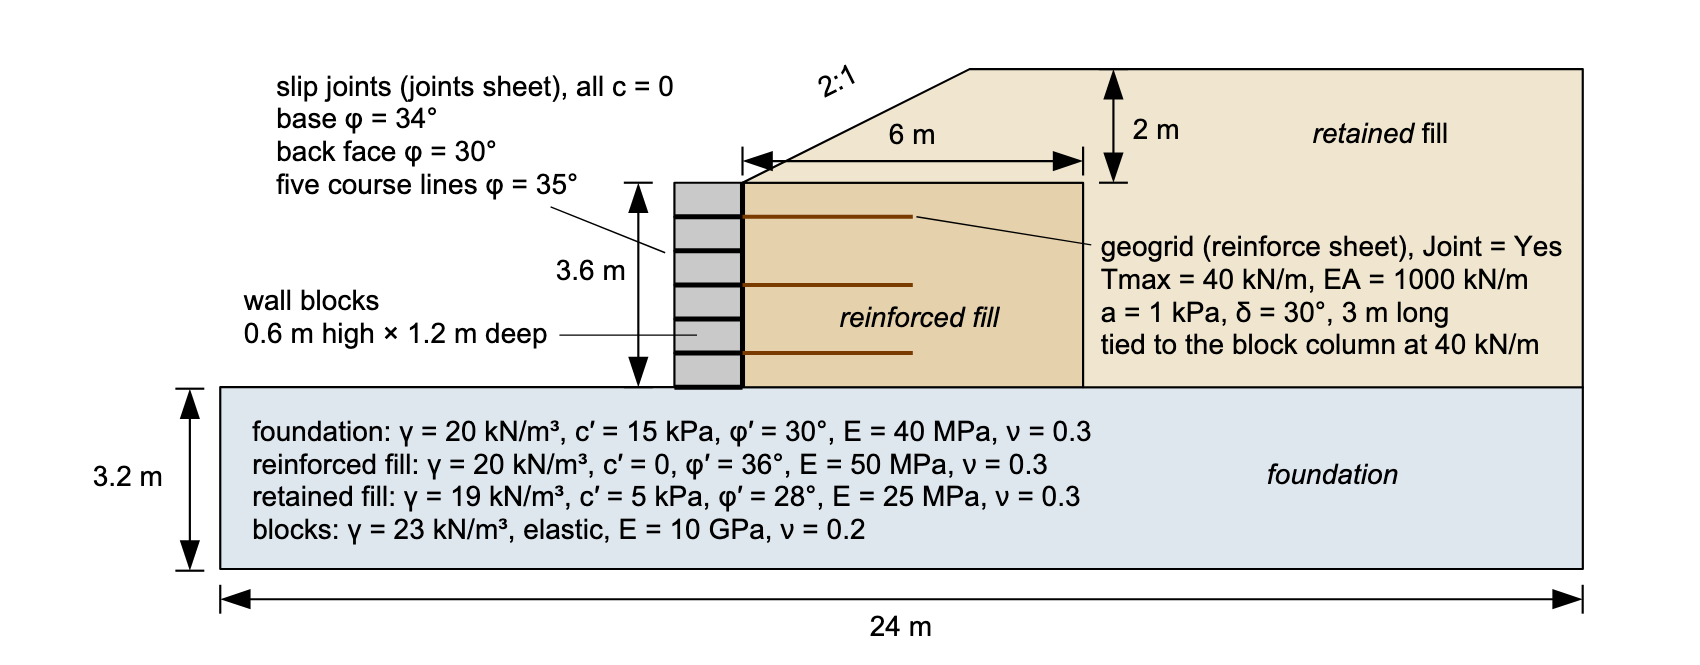
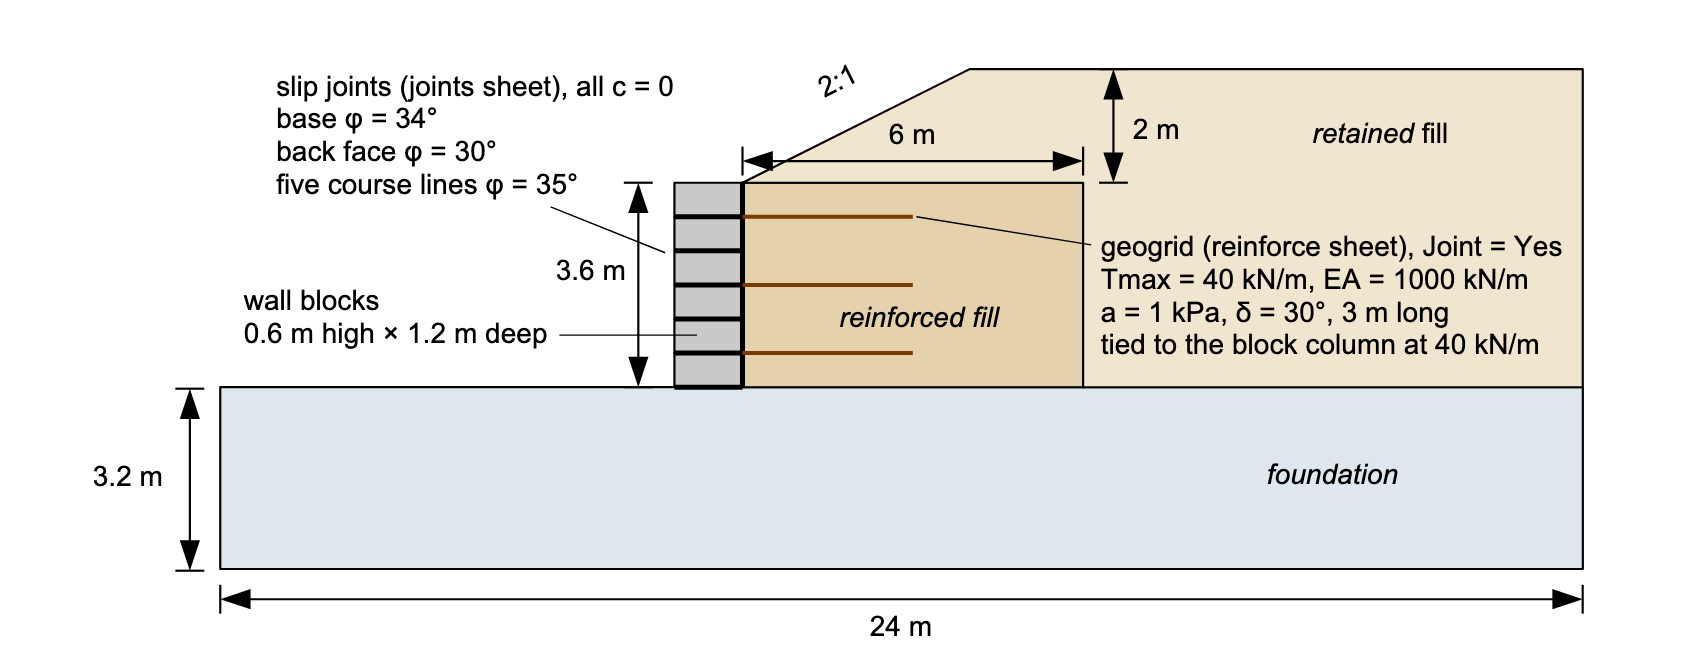
docs(tutorials): FEM-3 material properties move from the sketch to a table
Claude-Session: https://claude.ai/code/session_01XjjT2aBxw8gY7EFdpoUcpj

Changed region(s): [[0.1247, 0.6316, 0.6547, 0.812]]

diff --git a/docs/tutorials/fem03_block_wall_joints.md b/docs/tutorials/fem03_block_wall_joints.md
@@ -71,13 +71,19 @@ The wall stands **3.6 m** high in **six 0.6 m courses** of modular block
 fill behind it and a 2:1 backfill slope rising 2 m above the crest. The section
 is 24 m wide.
 
-Four materials. Three are ordinary Mohr-Coulomb soils — the foundation, the
-reinforced fill and the retained fill — with the unit weights, strengths and
-elastic pairs on the drawing. The fourth is the block, and it is declared
-**elastic**: a concrete unit is far stronger than anything around it, and
-declaring it elastic means the strength reduction has nothing in the block to
-weaken, which is the truth of the problem. The wall's strength is the strength of
-its contacts, not of its blocks.
+Four materials. Three are ordinary Mohr-Coulomb soils, the foundation, the
+reinforced fill and the retained fill. The fourth is the block, and it is
+declared **elastic**: a concrete unit is far stronger than anything around it,
+and declaring it elastic means the strength reduction has nothing in the block
+to weaken, which is the truth of the problem. The wall's strength is the
+strength of its contacts, not of its blocks.
+
+| material | γ (kN/m³) | c′ (kPa) | φ′ (°) | E (MPa) | ν |
+| --- | :---: | :---: | :---: | :---: | :---: |
+| foundation | 20 | 15 | 30 | 40 | 0.3 |
+| reinforced fill | 20 | 0 | 36 | 50 | 0.3 |
+| retained fill | 19 | 5 | 28 | 25 | 0.3 |
+| block | 23 | elastic | elastic | 10,000 | 0.2 |
 
 The wall is drawn with a vertical face. Real segmental walls are usually built
 with a small batter, each course set back a little from the one below. That puts
